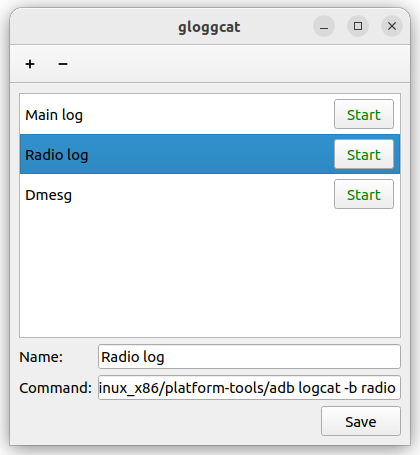
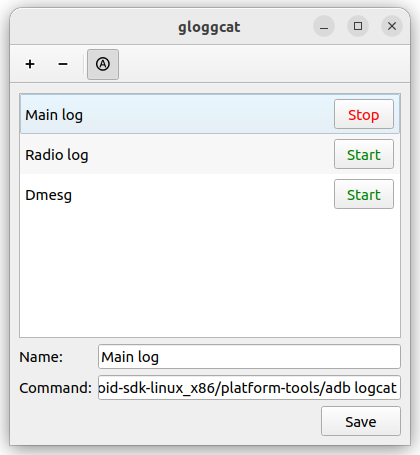
Add auto open option

diff --git a/mainwindow.cpp b/mainwindow.cpp
@@ -3,6 +3,7 @@
 #include "cmdlistdelegate.h"
 #include "cmdlistmodel.h"
 #include <QScreen>
+#include <QSettings>
 
 MainWindow::MainWindow(QWidget *parent)
     : QMainWindow(parent)
@@ -12,10 +13,16 @@ MainWindow::MainWindow(QWidget *parent)
 
     addAction = new QAction(QIcon("://res/list-add.png"), "Add", this);
     removeAction = new QAction(QIcon(":/res/list-remove.png"), "Remove", this);
+    autoOpenAction = new QAction(QIcon(":/res/auto-open.svg"), "Auto open glogg", this);
+    autoOpenAction->setCheckable(true);
+    autoOpenAction->setChecked(QSettings().value("auto_open", true).toBool());
     ui->toolBar->addAction(addAction);
     ui->toolBar->addAction(removeAction);
+    ui->toolBar->addSeparator();
+    ui->toolBar->addAction(autoOpenAction);
     connect(addAction, &QAction::triggered, this, &MainWindow::onAction);
     connect(removeAction, &QAction::triggered, this, &MainWindow::onAction);
+    connect(autoOpenAction, &QAction::toggled, this, &MainWindow::onAction);
 
     CmdListModel *model = new CmdListModel(ui->listView);
     CmdListDelegate *delegate = new CmdListDelegate(ui->listView);
@@ -68,5 +75,7 @@ void MainWindow::onAction()
         ui->listView->model()->insertRow(currentIndex.row() + 1);
     } else if (action == removeAction) {
         ui->listView->model()->removeRow(currentIndex.row());
+    } else if (action == autoOpenAction) {
+        QSettings().setValue("auto_open", action->isChecked());
     }
 }

diff --git a/cmdlistmodel.cpp b/cmdlistmodel.cpp
@@ -3,6 +3,7 @@
 #include <QDir>
 #include <QMimeData>
 #include <QRegularExpression>
+#include <QSettings>
 #include <QSqlError>
 #include <QSqlQuery>
 
@@ -224,6 +225,13 @@ void CmdListModel::procStateChanged(QProcess::ProcessState state)
     }
     if (row == -1) {
         return;
+    }
+    if (state == QProcess::Running) {
+        if (QSettings().value("auto_open", true).toBool()) {
+            const QString &file = data(index(row), FileRole).toString();
+            QProcess process;
+            process.startDetached("glogg", { file });
+        }
     }
     emit dataChanged(index(row), index(row));
 }

diff --git a/mainwindow.h b/mainwindow.h
@@ -31,5 +31,6 @@ private:
     QPersistentModelIndex currentIndex;
     QAction *addAction;
     QAction *removeAction;
+    QAction *autoOpenAction;
 };
 #endif // MAINWINDOW_H

diff --git a/README.md b/README.md
@@ -1,4 +1,4 @@
 # gloggcat
-Double-click to open log file in the powerful glogg tool.
+One click to view log in the powerful glogg tool.
 
 <img src="website/Screenshot.png" width="420"/>
